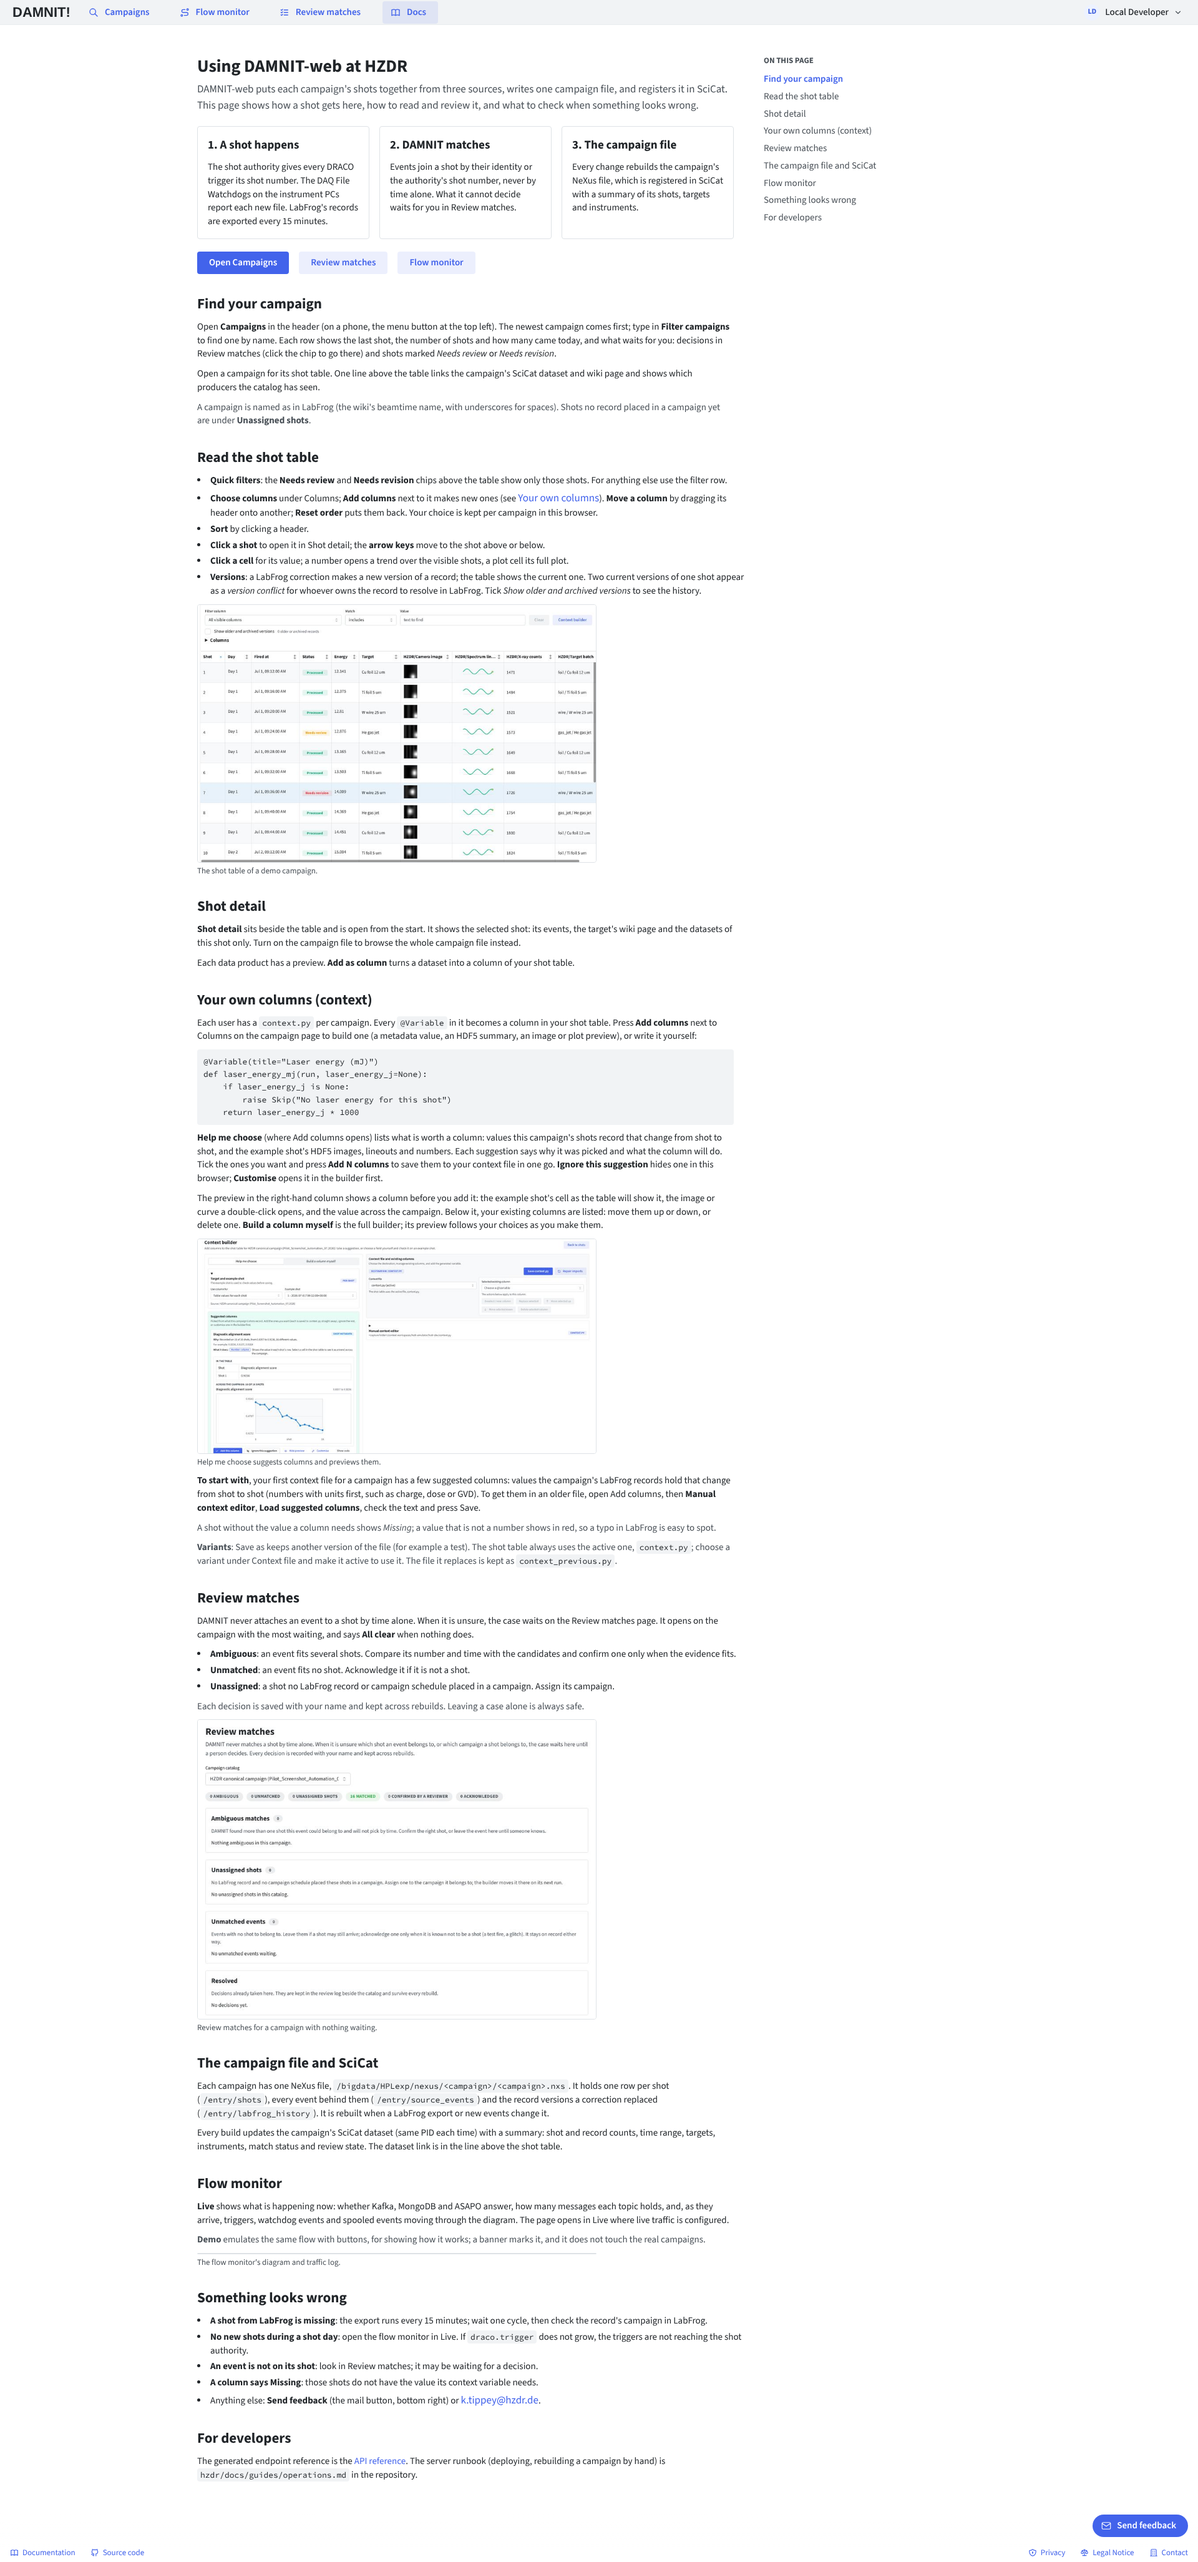
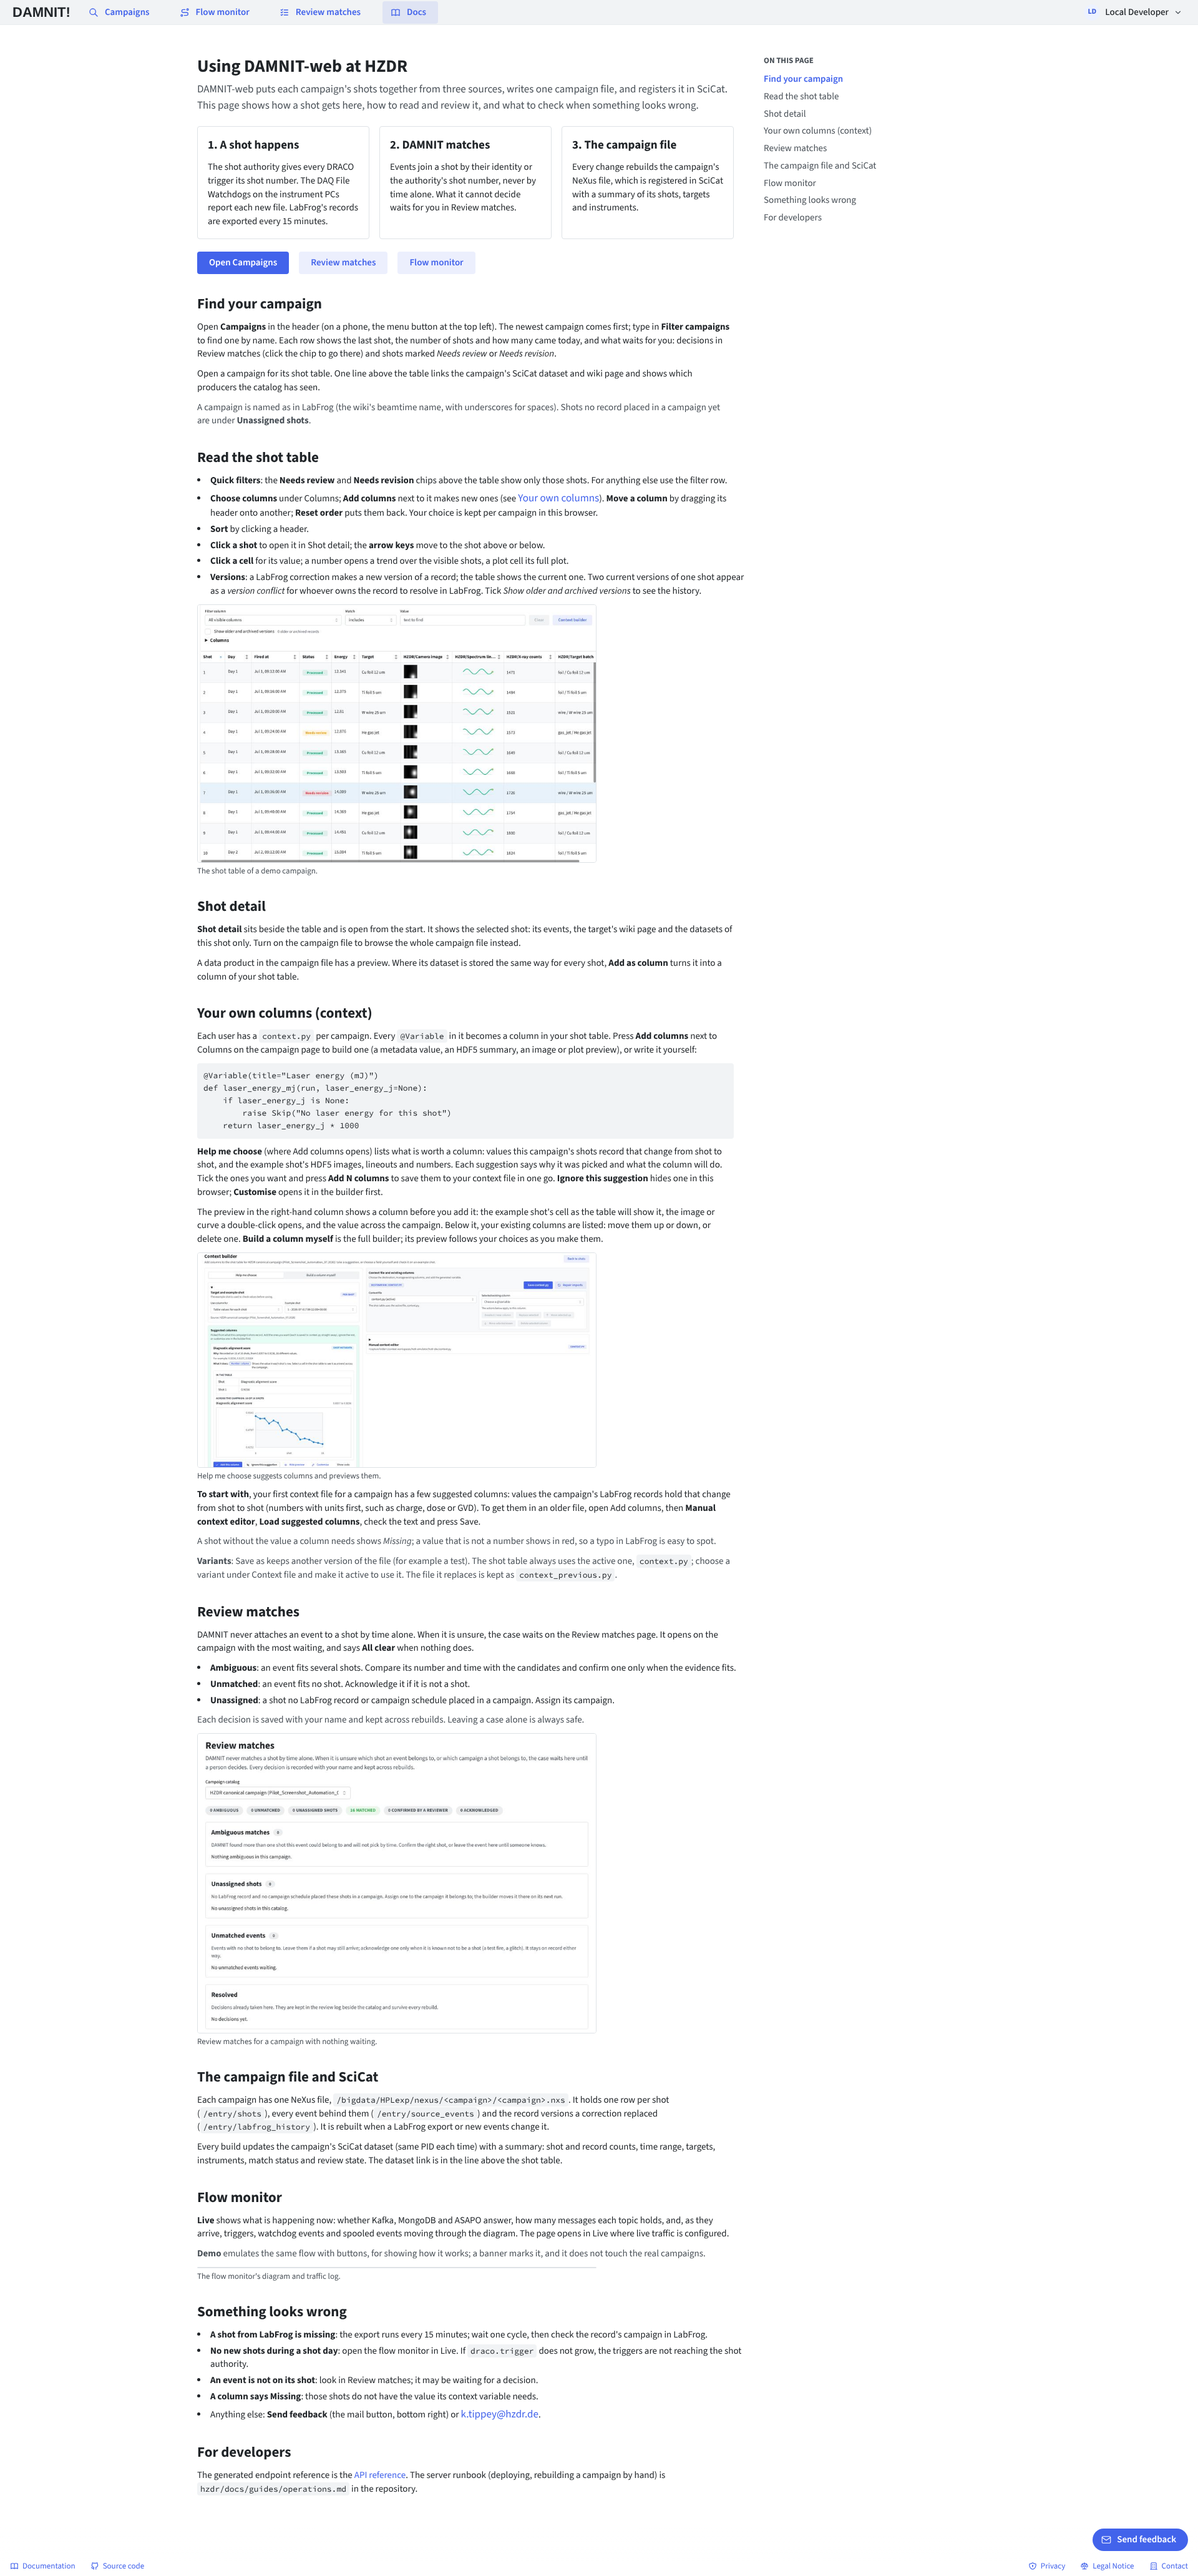
Context Builder: preview the example shot's own per-shot dataset, keep a linked &shot=; screenshots and docs recaptured
A per-shot dataset folded into one {shot_id} template previewed the last
copy in the campaign file (shot 16's image labelled Shot 1); it now reads
the example shot's own. A second load of the shot list no longer resets a
deep link's example shot. All seven screenshots and the in-app docs crops
are recaptured; the screenshot guide describes the pages as they are now.

Claude-Session: https://claude.ai/code/session_014Jn2FUYm5jdkuJ6M2VJL8i

diff --git a/frontend/apps/app/src/hzdr/pages/ContextBuilderPage.tsx b/frontend/apps/app/src/hzdr/pages/ContextBuilderPage.tsx
@@ -254,7 +254,16 @@ export function ContextBuilderPage() {
         }
         const nextShots = loadedShots as HZDRShot[]
         setShots(nextShots)
-        setSelectedShotIndex(nextShots.length ? 0 : undefined)
+        // A deep link's shot (&shot=) stays the example shot even when the
+        // shots load again (a second load would otherwise reset it to the first).
+        const linked = addShot
+          ? nextShots.findIndex(
+              (shot) =>
+                shot.shot_key === addShot ||
+                String(shot.shot_number) === addShot
+            )
+          : -1
+        setSelectedShotIndex(nextShots.length ? Math.max(linked, 0) : undefined)
       })
       .catch(() => setSaveStatus('Could not load source shots.'))
       .finally(() => setShotsLoaded(true))
@@ -273,7 +282,7 @@ export function ContextBuilderPage() {
         )
       })
       .catch(() => setContextFiles([]))
-  }, [source_key])
+  }, [addShot, source_key])
 
   // Suggestions for this campaign only: a late answer for the campaign the
   // page showed before is dropped, so Add never writes its blocks here.
@@ -368,10 +377,20 @@ export function ContextBuilderPage() {
       })),
     [metadataKeys, shots]
   )
+  // The shot whose datasets are listed: per-shot previews read its own copy.
+  const exampleShotMetadataId = shotDetail?.shot.metadata?.shot_id
+  const exampleShotId =
+    typeof exampleShotMetadataId === 'string'
+      ? exampleShotMetadataId
+      : undefined
   const datasetOptions = useMemo(
     () =>
-      buildHdf5DatasetOptions(shotDetail?.hdf5_datasets ?? [], contextScope),
-    [contextScope, shotDetail?.hdf5_datasets]
+      buildHdf5DatasetOptions(
+        shotDetail?.hdf5_datasets ?? [],
+        contextScope,
+        exampleShotId
+      ),
+    [contextScope, exampleShotId, shotDetail?.hdf5_datasets]
   )
   const inputOptions = useMemo<SelectOptionGroup[]>(
     () =>
@@ -432,8 +451,13 @@ export function ContextBuilderPage() {
     ? formatShotLabel(selectedShot.shot_number, selectedShot.fired_at)
     : 'none'
   const shotDatasetOptions = useMemo(
-    () => buildHdf5DatasetOptions(shotDetail?.hdf5_datasets ?? [], 'shot'),
-    [shotDetail?.hdf5_datasets]
+    () =>
+      buildHdf5DatasetOptions(
+        shotDetail?.hdf5_datasets ?? [],
+        'shot',
+        exampleShotId
+      ),
+    [exampleShotId, shotDetail?.hdf5_datasets]
   )
   const shotDatasetSuggestions = useMemo(
     () => datasetSuggestions(shotDatasetOptions, exampleShotLabel),

diff --git a/frontend/apps/app/src/hzdr/utils/hdf5.ts b/frontend/apps/app/src/hzdr/utils/hdf5.ts
@@ -6,9 +6,16 @@ import type {
   SelectOptionGroup,
 } from '../types'
 
+/**
+ * The builder's dataset choices. Per-shot datasets (`by_shot/<id>/...`) fold
+ * into one `{shot_id}` template; its `previewName` is the example shot's own
+ * copy (`exampleShotId`, the shot's `metadata.shot_id`) when the file has
+ * one, so a preview labelled with the example shot reads that shot's data.
+ */
 export function buildHdf5DatasetOptions(
   datasets: HZDRHDF5Dataset[],
-  contextScope: string
+  contextScope: string,
+  exampleShotId?: string | null
 ): HZDRDatasetOption[] {
   const byShotOptions = new Map<string, HZDRDatasetOption>()
   const directOptions: HZDRDatasetOption[] = []
@@ -18,6 +25,15 @@ export function buildHdf5DatasetOptions(
     const kind = classifyHdf5Dataset(dataset)
 
     if (contextScope === 'shot' && templateName) {
+      const existing = byShotOptions.get(templateName)
+      if (
+        existing &&
+        exampleShotId &&
+        existing.previewName ===
+          templateName.replace('{shot_id}', exampleShotId)
+      ) {
+        continue
+      }
       byShotOptions.set(templateName, {
         value: `hdf5:${templateName}`,
         label: `${dataset.name.split('/').at(-1)} (${dataset.dtype}, ${formatShape(dataset.shape)})`,

diff --git a/frontend/apps/app/src/hzdr/utils/__tests__/hdf5.test.ts b/frontend/apps/app/src/hzdr/utils/__tests__/hdf5.test.ts
@@ -1,0 +1,24 @@
+import { describe, expect, it } from 'vitest'
+
+import { buildHdf5DatasetOptions } from '../hdf5'
+
+describe('per-shot preview follows the example shot', () => {
+  const datasets = ['shot-000001', 'shot-000007', 'shot-000016'].map((id) => ({
+    name: `fixtures/by_shot/${id}/images/camera_raw`,
+    shape: [64, 64],
+    dtype: 'float32',
+  }))
+
+  it('previews the example shot’s own copy, not the last one listed', () => {
+    const [option] = buildHdf5DatasetOptions(datasets, 'shot', 'shot-000007')
+    expect(option.name).toBe('fixtures/by_shot/{shot_id}/images/camera_raw')
+    expect(option.previewName).toBe(
+      'fixtures/by_shot/shot-000007/images/camera_raw'
+    )
+  })
+
+  it('falls back to a listed copy when the shot has none', () => {
+    const [option] = buildHdf5DatasetOptions(datasets, 'shot', 'shot-000099')
+    expect(option.previewName).toMatch(/^fixtures\/by_shot\/shot-0000/)
+  })
+})

diff --git a/hzdr/docs/screenshots.md b/hzdr/docs/screenshots.md
@@ -46,32 +46,39 @@ Everything lives in a temporary directory and is deleted when the capture ends.
 The values are synthetic: they are shaped like a DRACO run, but no shot in them
 was ever fired.
 
-## Home — source workspace
+## Home — campaigns
 
-The landing page (`/home`): entry points to the flow monitor, shot table,
-and docs, plus the sources visible to the HZDR provider.
+The landing page (`/home`, the **Campaigns** tab): every campaign the HZDR
+provider sees, newest first, with a filter box. Each row has its last shot
+time, shot count, "+N today", the decisions waiting in Review matches and
+the shots needing review or revision; the DAMNIT folder is small print.
 
 ![Home](screenshots/home.png)
 
 ## Shot table
 
-A source page (`/source/{source_key}`): the per-shot table with status
-badges, campaign/context columns, inline image and trend previews, and the
-selected-cell / shot-sets side panel. The capture clicks a camera-image cell,
-so the panel shows the full preview and that column's trend across the run.
+A campaign page (`/source/{source_key}`): DAMNIT's per-shot table with
+status badges, campaign/context columns and inline image and trend previews.
+Above it, one line of status chips (SciCat, wiki, producers, Flow monitor),
+quick filters for review status and day, and **Add columns** beside Columns.
+The capture clicks a camera-image cell of shot 7, so the side panel shows the
+full preview, then Shot detail (open by default: facts, the review control,
+events, data products and only that shot's datasets as a tree), then Shot
+sets with a trend.
 
 ![Shot table](screenshots/shot-table.png)
 
 ## Context builder: Help me choose
 
 `/source/{source_key}/context-builder` as it opens: the campaign's suggested
-columns, each with why it was picked (how many shots record it, the range it
-spans, example values) and what the column will do, and **Add this column**,
-**Ignore this suggestion**, **Preview** and **Customise**. The capture opens
-the first card's preview: its cell on the example shot and its trend across
-the campaign. The first six show; the rest
-are behind **Show more**, which in this capture holds the example shot's HDF5
-image, lineout and scalar suggestions.
+columns as tickable rows (how many shots record each and the range it spans).
+The capture ticks three, so **Add 3 columns** is live. The selected row's
+detail sits in the right column: why it was picked, example values, what the
+column will do, its preview (the example shot's cell and the campaign trend)
+and **Add this column**, **Ignore this suggestion**, **Customise** and **Show
+code**; below it, the file's existing columns with Edit, Move and Delete. The
+first six rows show; the rest are behind **Show more**, which in this capture
+holds the example shot's HDF5 image, lineout and scalar suggestions.
 
 ![Context builder, Help me choose](screenshots/context-assist.png)
 
@@ -87,21 +94,20 @@ double-click opens, and the Python that will be appended to `context.py`.
 ## Review matches
 
 `/review-matches` (the old `/link-shot-records` path redirects there): per
-campaign catalog, the cases the builder will not guess — ambiguous events
-with their candidate shots to confirm, unmatched events to acknowledge, and
-unassigned shots to assign to a campaign — plus who resolved what, and when.
+campaign, the cases the builder will not guess — ambiguous events with their
+candidate shots to confirm (the closest in time highlighted), unmatched
+events to acknowledge, and unassigned shots to assign to a campaign — plus
+who resolved what, and when. The picker shows what waits in each campaign
+and the page opens on the busiest. The capture campaign has nothing waiting,
+so it shows the one "All clear" banner and the folded Resolved list.
 
-**Stale capture.** The image below still shows the page as it was before
-2026-10-03, "Link Existing Shot Records" with its campaign
-cross-reference and review-package draft, both since removed. It is kept
-until the screenshot revamp recaptures it.
-
-![Review matches (stale: the former Link records page)](screenshots/link-shot-records.png)
+![Review matches](screenshots/link-shot-records.png)
 
 ## In-app docs
 
-`/docs`: the produce → stage → inspect workflow summary with the
-quick-start commands, captured with every section expanded.
+`/docs`: how a shot gets here and how to read and review it, with a
+contents list beside the text and a screenshot per section; each section is
+linkable (`/docs#review-matches`).
 
 ![Docs](screenshots/docs.png)
 
@@ -110,9 +116,10 @@ quick-start commands, captured with every section expanded.
 `/flow-monitor`: the live system diagram from producers (Shotcounter,
 LaserData, DAQ File Watchdog, MongoDB shotsheet) through Kafka/ASAPO into
 the staged event log, the HDF5 builder, and the DAMNIT-web live view.
-Demo mode emulates producer events locally; Live mode reads real
-broker/spool activity. The capture runs one shot through the demo buttons,
-which is what fills the traffic log — and why this page is photographed last,
+Demo mode (marked by a banner) emulates producer events locally; Live mode,
+the default where a spool consumer is enabled, reads real broker/spool
+activity. The capture runs one shot through the demo buttons, which is what
+fills the full-width traffic log — and why this page is photographed last,
 after every page that shows the untouched campaign.
 
 ![Flow monitor](screenshots/flow-monitor.png)

diff --git a/hzdr/docs/README.md b/hzdr/docs/README.md
@@ -24,7 +24,7 @@ branch merge (I3). See the [roadmap](status/integration-roadmap.md) and short
 | --- | --- |
 | [System overview](system-overview.md) | The seven pilot-runtime repositories, the end-to-end data flow, shared contracts, and the end products |
 | [Architecture](architecture.md) | Canonical identity, event model, NeXus layout, and system boundaries |
-| [Screenshots](screenshots.md) | Current UI: home, shot table, context builder (Help me choose and the builder), review matches (stale capture), in-app docs, flow monitor |
+| [Screenshots](screenshots.md) | Current UI: home, shot table, context builder (Help me choose and the builder), review matches, in-app docs, flow monitor |
 | [User guide](guides/user-guide.md) | Find a campaign, inspect shots, and resolve review cases |
 
 ## Reference — data model & standards

diff --git a/hzdr/CHANGELOG.md b/hzdr/CHANGELOG.md
@@ -49,6 +49,9 @@ behaviour; the merge PR has the details.
   page); the example shot reads "Shot 7 · 1 Jul, 11:36". A link
   `?add=hdf5:<dataset>` or `?add=metadata:<path>` (optional `&shot=`) opens
   the builder with that data chosen.
+- Context Builder previewed a per-shot dataset (`by_shot/<id>/...`) from the
+  campaign file's last shot whatever the example shot was (shot 16's image
+  labelled Shot 1); it now reads the example shot's own copy.
 - **Docs:** a contents list beside the text on wide screens, sections
   linkable as `/docs#review-matches`, a screenshot per section, and names
   that match the buttons. The launcher commands moved out to
